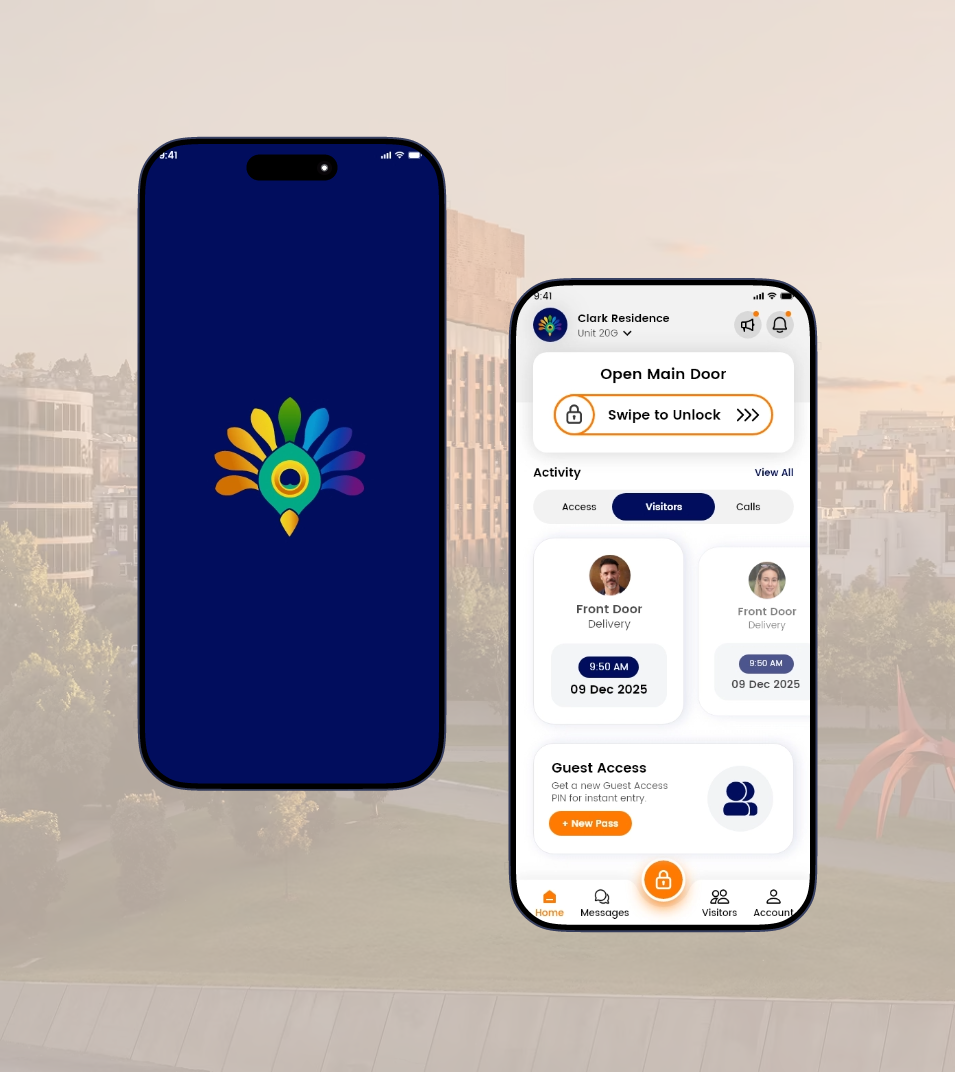
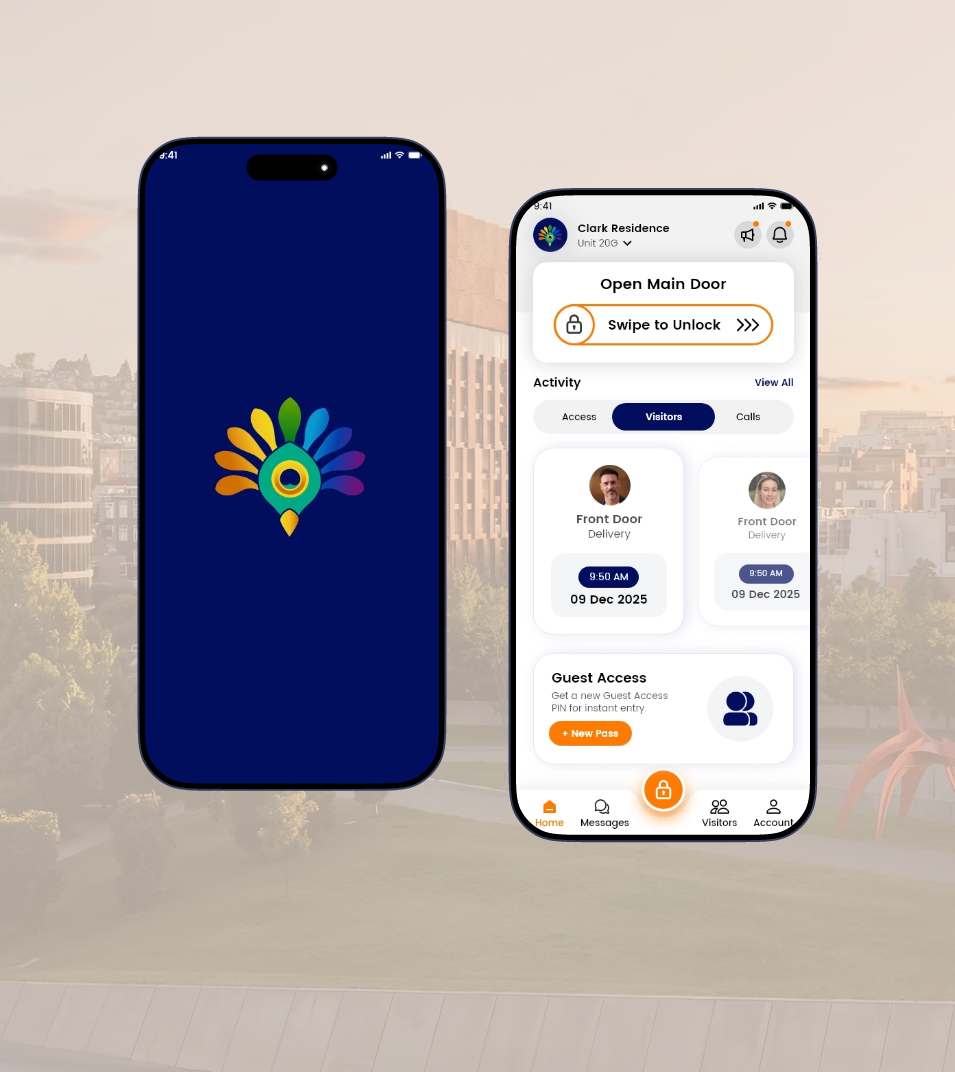
Fix SVG dimensions and adjust filter positions; update HTML structure by removing unnecessary line breaks

Changed region(s): [[0.5162, 0.1539, 0.8806, 0.8927]]

diff --git a/rex-vida.html b/rex-vida.html
@@ -198,7 +198,6 @@
                                         future technologies as communities evolve.</p>
                                 </div>
                             </div>
-
                         </div>
                     </div>
                 </section>
@@ -227,7 +226,6 @@
                                     <h4 class="sub-title section-text-h4" data-text-anim="bodyAnimation"> Build Smarter.
                                         <br> Live Better. <br> <span class=" small-desc">Powered by Rex Vida</span>
                                     </h4>
-
                                     <div class="app-actions">
                                         <a href="#" class="link-add" aria-label="Google play">
                                             <img src="images/google-play.png" alt=""></a>
@@ -235,10 +233,7 @@
                                                 src="images/app-store.png" alt=""></a>
                                     </div> <span class="text-muted"> Mobile Apps coming soon - Stay
                                         tuned!</span>
-
                                 </div>
-
-                                .
                             </div>
 
                         </header>
